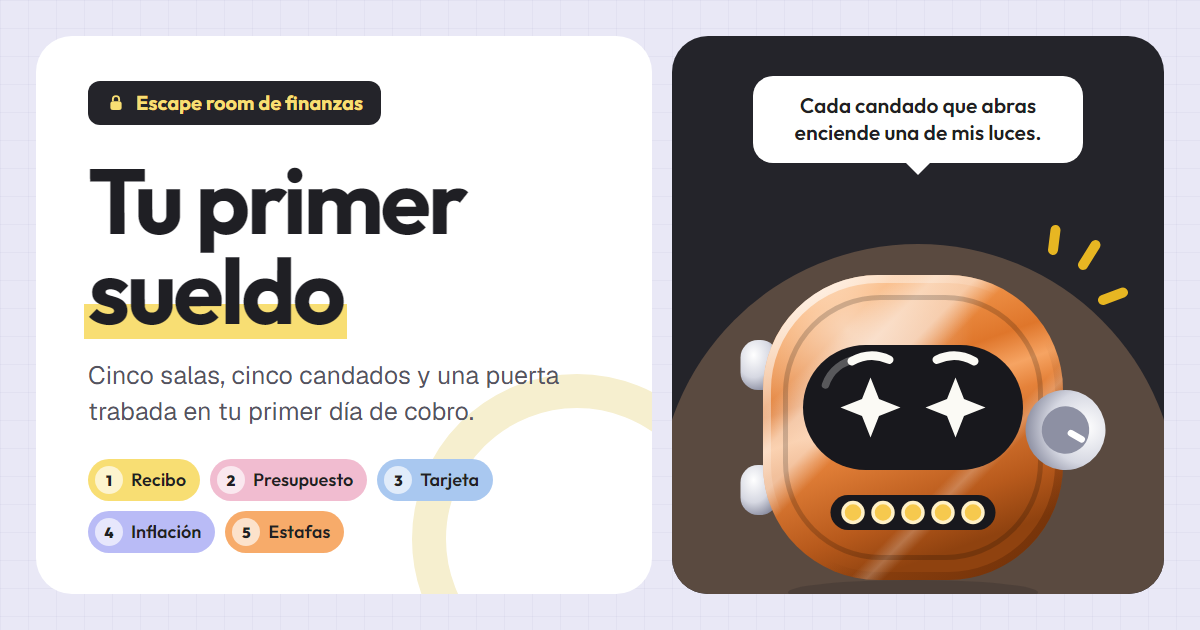
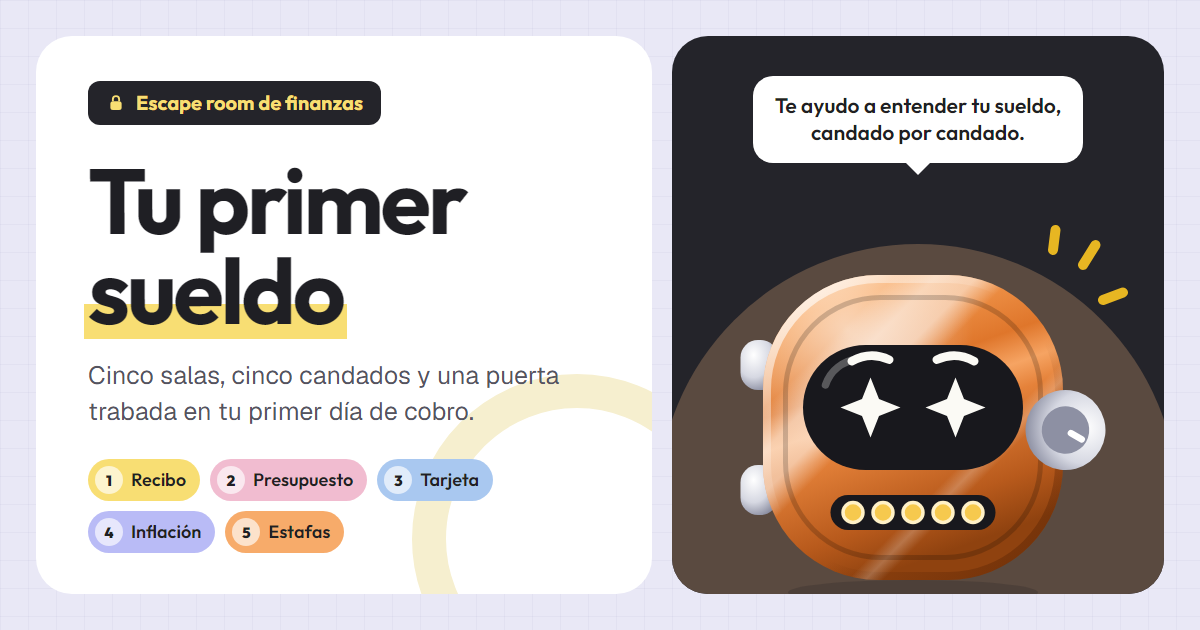
Tarjeta para compartir del escape room: frase de Fuerte orientada al aprendizaje

Changed region(s): [[0.6475, 0.1508, 0.8942, 0.2413]]

diff --git a/escape/index.html b/escape/index.html
@@ -16,7 +16,7 @@
 <meta property="og:image:type" content="image/png">
 <meta property="og:image:width" content="1200">
 <meta property="og:image:height" content="630">
-<meta property="og:image:alt" content="Tu primer sueldo, escape room de finanzas. Fuerte, una caja fuerte naranja con cara, dice: cada candado que abras enciende una de mis luces. Cinco salas: recibo, presupuesto, tarjeta, inflación y estafas.">
+<meta property="og:image:alt" content="Tu primer sueldo, escape room de finanzas. Fuerte, una caja fuerte naranja con cara, dice: te ayudo a entender tu sueldo, candado por candado. Cinco salas: recibo, presupuesto, tarjeta, inflación y estafas.">
 <meta name="twitter:card" content="summary_large_image">
 <meta name="twitter:title" content="Tu primer sueldo | Escape room de finanzas">
 <meta name="twitter:description" content="Cinco salas sobre el recibo, el presupuesto, la tarjeta, la inflación y las estafas digitales.">
